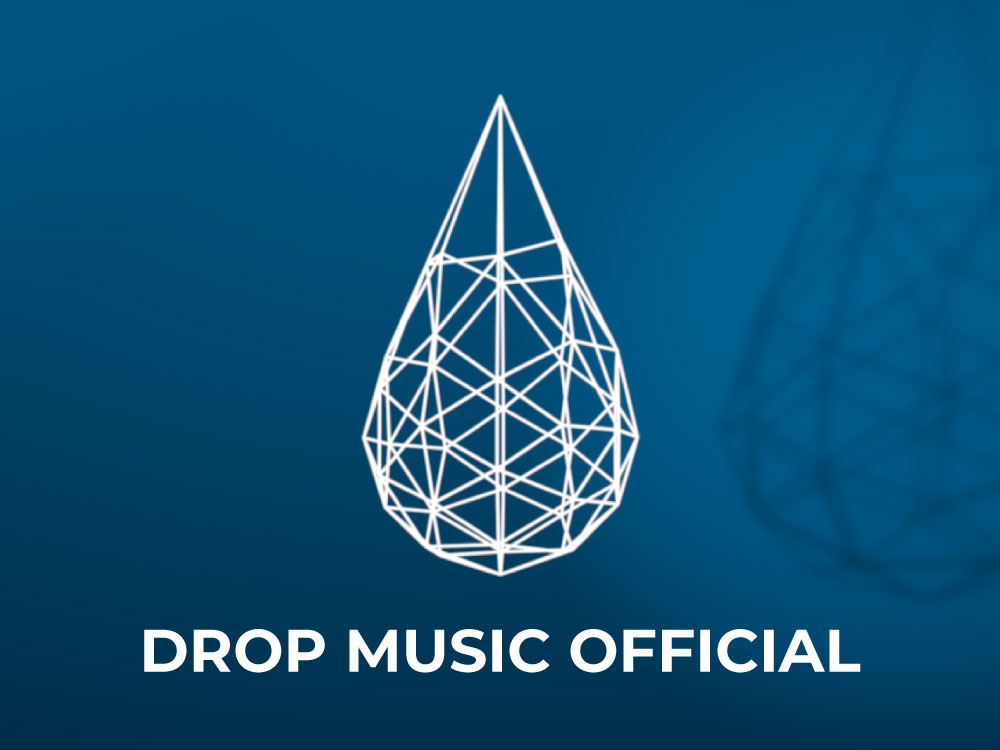
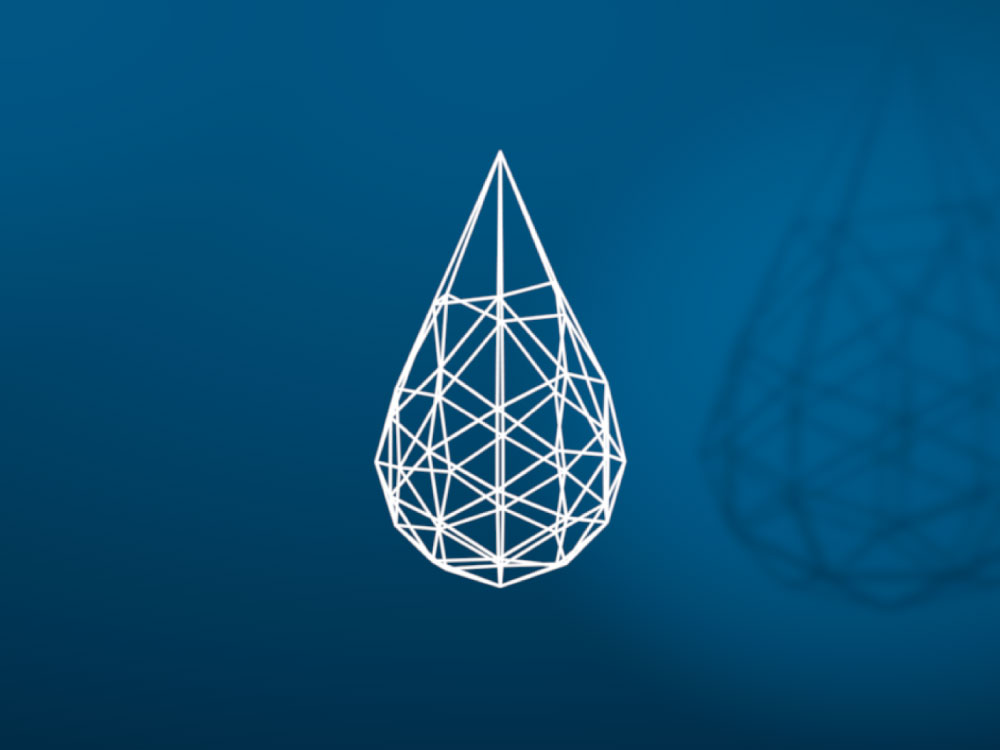
updated page bg + overall project page style

Changed region(s): [[0.341, 0.1227, 0.651, 0.7973], [0.124, 0.828, 0.868, 0.92]]

diff --git a/src/pages/ProjectPage.jsx b/src/pages/ProjectPage.jsx
@@ -34,7 +34,7 @@ const ProjectPage = () => {
 
   if (!project) {
     // Handle case where project is not found
-    return <div>Project not found</div>;
+    return <div>Page not found</div>;
   }
 
   const heroImageStyle = {
@@ -61,12 +61,10 @@ const ProjectPage = () => {
 
 
   return (
-    <div className="relative z-0 bg-white">
+    <>
       <Navbar isHomePage={false} />
-      <div className="relative w-full h-screen" style={heroImageStyle}>
-        <h1 className={`${styles.sectionHeadText} text-white w-full text-center absolute bottom-24 left-[50%] -translate-x-1/2 uppercase`}>{project.name}</h1>
-        {/* Navigation buttons */}
-        <motion.div
+      {/* Navigation buttons */}
+      <motion.div
           animate={{
             x: [0, -8, 0],
             y: [0, 0, 0]
@@ -77,7 +75,7 @@ const ProjectPage = () => {
             repeatType: 'reverse',
             ease: "easeInOut",
           }}
-          className="absolute top-[50%] w-full p-4 md:p-6 flex justify-between items-center text-[24px]">
+          className="z-10 fixed top-[50%] w-full p-4 md:p-6 flex justify-between items-center text-[24px]">
           <button
             aria-label="Previous Prtoject"
             className="w-[32px] h-[32px] md:w-[64px] md:h-[64px] text-white/40 hover:text-white" onClick={() => navigateToProject(prevProjectIndex)}>
@@ -90,7 +88,7 @@ const ProjectPage = () => {
           </button>
         </motion.div>
         {/* Indicators */}
-        <div className="w-full flex flex-nowrap justify-center absolute top-20 gap-2">
+        <div className="z-10 w-full flex flex-nowrap justify-center fixed top-20 gap-2">
           {projects.map((project, index) => (
             <Link
               key={project.id}
@@ -105,29 +103,50 @@ const ProjectPage = () => {
             </Link>
           ))}
         </div>
-        <div className="absolute bottom-10 left-[50%] -translate-x-[50%] flex justify-center items-center opacity-40 hover:opacity-80">
-          <a href={`#${projectName}`}>
-            <div className="w-[20px] h-[44px] rounded-3xl border-2 border-gray-200 flex justify-center items-start p-1">
-              <motion.div
-                animate={{
-                  y: [0, 24, 0]
-                }}
-                transition={{
-                  duration: 2.5,
-                  repeat: Infinity,
-                  repeatType: 'loop',
-                }}
-                className="w-2 h-2 rounded-full bg-gray-100 mb-1"
-              />
-            </div>
-          </a>
-        </div>
-      </div>
-      <div className={`${styles.padding} max-w-7xl mx-auto relative z-0`}>
-        <span className='hash-span' id={projectName}>&nbsp;</span>
+      <div className="relative pt-20 p-4 md:p-20 flex flex-col items-center justify-center">
+        <div className="mt-8 md:mt-10 p-4 md:p-10 rounded-3xl border-2 border-tertiary max-w-[1280px]">
+          <div className='relative w-full h-full min-h-[190px] mb-10'>
+            <img src={project.image} alt={project.name} className="w-full h-full object-cover rounded-2xl" />
+          </div>
+      <div className={`max-w-7xl mx-auto relative z-0 px-4`}>
         <h2 className={`${styles.sectionHeadText}`}>{project.name}</h2>
         {project.content.map((section, index) => (
-          <motion.section
+          (section.image || section.video) ? (
+            <motion.section
+            variants={staggerContainer()}
+            initial="hidden"
+            whileInView="show"
+            viewport={{ once: true, amount: 0.25}}
+            key={`section-${index}`}
+            className={`py-8 flex ${index % 2 === 0 ? 'flex-col lg:flex-row' : 'flex-col lg:flex-row-reverse'}`}>
+            <motion.div
+              variants={textVariant(0.3 * index)}
+              className={`${index === 0 ? "w-full max-w-3xl" : "w-full lg:w-1/2 pb-8 lg:p-12"} ${index % 2 === 0 ? 'lg:pl-0' : 'lg:pr-0'}`}>
+              <motion.h2 variants={slideIn("", "", index, 1)} className={styles.pageHeadText}>{section.title}</motion.h2>
+              <motion.p variants={fadeIn("", "", 0.3 * index, 0.8)} className='text-white'>{section.description}</motion.p>
+            </motion.div>
+            <Tilt className="w-full lg:w-1/2">
+              {(section.image || section.video)
+                && (
+                  <motion.div 
+                  variants={fadeIn("", "", 0.3 * index, 0.8)}
+                    className={`${index !== 0 && "border-2 border-tertiary rounded-xl overflow-hidden w-full h-full min-h-[250px]"}`}>
+                    {section.image && <img className="w-full h-full min-h-[180px] object-cover" src={section.image} alt={section.title} />}
+                    {section.video && (
+                      <iframe
+                        className="w-full h-full md:w-50% min-h-[250px]"
+                        src={`https://www.youtube.com/embed/${getYouTubeVideoId(section.video)}`}
+                        allow="autoplay; encrypted-media"
+                        allowFullScreen
+                        title={section.title}
+                      />
+                    )}
+                  </motion.div>
+                )}
+            </Tilt>
+          </motion.section>
+          ) : (
+            <motion.section
             variants={staggerContainer()}
             initial="hidden"
             whileInView="show"
@@ -136,11 +155,11 @@ const ProjectPage = () => {
             className={`py-8 flex ${index % 2 === 0 ? 'flex-col md:flex-row' : 'flex-col md:flex-row-reverse'}`}>
             <motion.div
               variants={textVariant(0.3 * index)}
-              className={`${index === 0 ? "w-full max-w-3xl" : "w-full md:w-1/2 pb-8 md:p-12"}`}>
+              className={`${index === 0 ? "w-full max-w-3xl" : "w-full pb-8 md:p-12"}`}>
               <motion.h2 variants={slideIn("", "", index, 1)} className={styles.pageHeadText}>{section.title}</motion.h2>
-              <motion.p variants={fadeIn("", "", 0.3 * index, 0.8)} className='text-slate-950'>{section.description}</motion.p>
+              <motion.p variants={fadeIn("", "", 0.3 * index, 0.8)} className='text-white'>{section.description}</motion.p>
             </motion.div>
-            <Tilt className="w-full">
+            {/* <Tilt className="w-full">
               {(section.image || section.video)
                 && (
                   <motion.div 
@@ -158,11 +177,14 @@ const ProjectPage = () => {
                     )}
                   </motion.div>
                 )}
-            </Tilt>
+            </Tilt> */}
           </motion.section>
+          )
         ))}
       </div>
-    </div>
+      </div>
+      </div>
+    </>
   );
 };
 

diff --git a/src/App.jsx b/src/App.jsx
@@ -20,7 +20,7 @@ import Terms from './pages/Terms';
 const Home = () => {
   
   return (
-    <div className="relative z-0 bg-black">
+    <div className="relative z-0">
       <div>
         <Navbar isHome={true} />
         <Hero />
@@ -31,9 +31,9 @@ const Home = () => {
       <Works />
       <Feedbacks />
       <Contact />
-      <div className="fixed top-[0px] left-[0px] w-full h-screen z-[-1]">
+      {/* <div className="fixed top-[0px] left-[0px] w-full h-screen z-[-1]">
         <StarsCanvas />
-      </div>
+      </div> */}
     </div>
   )
 }
@@ -51,6 +51,10 @@ const App = () => {
           <FmLogo />
           <Footer />
         </footer>
+      
+      <div className="fixed top-[0px] left-[0px] w-full h-screen z-[-1]">
+        <StarsCanvas />
+      </div>
       {/* </div> */}
     </Router>
   )

diff --git a/src/components/Navbar.jsx b/src/components/Navbar.jsx
@@ -46,7 +46,7 @@ const Navbar = ({ isHome }) => {
           {/* <div className="absolute top-[-50%] left-[-50%]"> */}
             <FmLogo />
           {/* </div> */}
-          <p className="absolute left-20 mb-4 text-white text-[20px] md:text-[22px] font-light uppercase cursor-pointer w-auto whitespace-nowrap tracking-wider">Fabrizio Marras</p>
+          <p className={`absolute left-20 mb-4 text-[20px] md:text-[22px] font-normal uppercase cursor-pointer w-auto whitespace-nowrap tracking-widest text-white`}>Fabrizio Marras</p>
         </Link>
         <ul className="list-none hidden mb-4 sm:flex flex-row gap-4">
           {navLinks.map((link) => (

diff --git a/src/styles.js b/src/styles.js
@@ -16,7 +16,7 @@ const styles = {
       "font-title font-light sm:text-[18px] text-[14px] text-tertiary uppercase tracking-wider text-center",
 
     pageHeadText:
-      "font-title text-secondary font-medium md:text-[40px] sm:text-[28px] xs:text-[24px] text-[18px]",
+      "font-title text-secondary font-medium md:text-[32px] sm:text-[24px] text-[18px]",
 
     pText: 
     "font-body font-light sm:text-[16px] text-[14px] text-white tracking-wider text-center m-auto",

diff --git a/src/assets/index.js b/src/assets/index.js
@@ -36,7 +36,7 @@ import threejs from "./tech/threejs.png";
 import artificial from "./tech/ai.png";
 // Projects
 import ainsyte from "./work/ainsyte.jpg";
-import drop from "./work/drop.jpeg";
+import drop from "./work/drop.jpg";
 import mnml from "./work/mnml.jpg";
 import lovelace from "./work/lovelace.jpg";
 import prasanna from "./work/prasanna.jpg";

diff --git a/src/constants/projects.js b/src/constants/projects.js
@@ -4,6 +4,7 @@ import {
     lovelace,
     prasanna,
     speak2lead,
+    drop,
     drop_01,
     drop_02,
     drop_03,
@@ -112,7 +113,7 @@ export const projects = [
           img: adobe_pr,
         }
       ],
-      image: drop_01,
+      image: drop,
       link: "",
       link_fm: "/project/Drop-Music-Official",
       content: [
